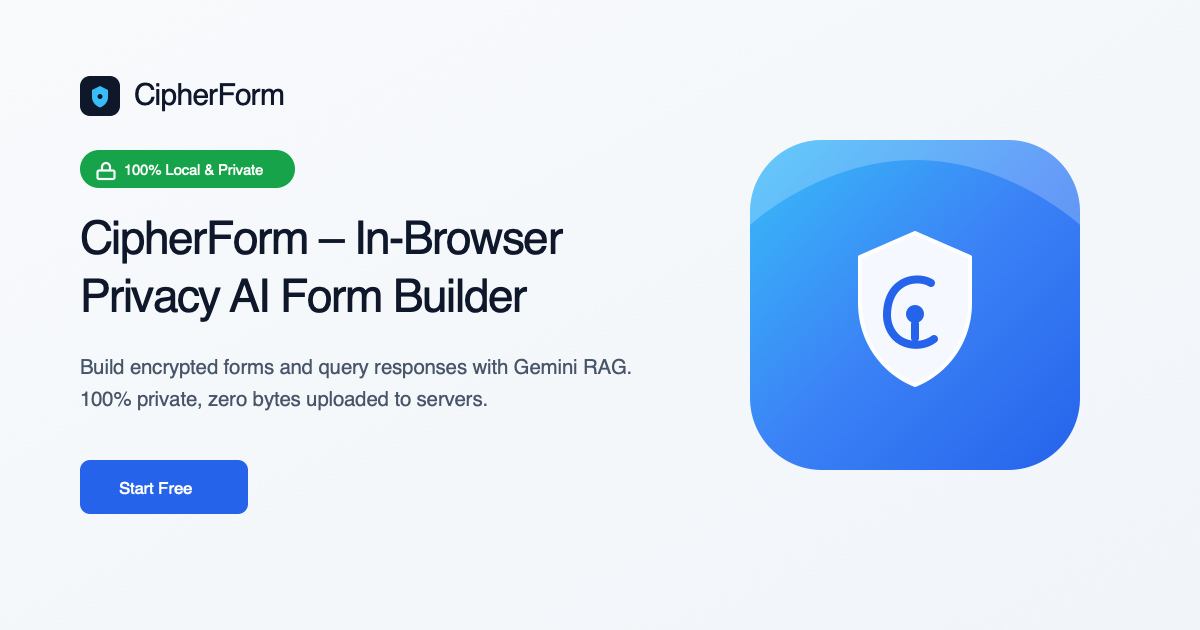
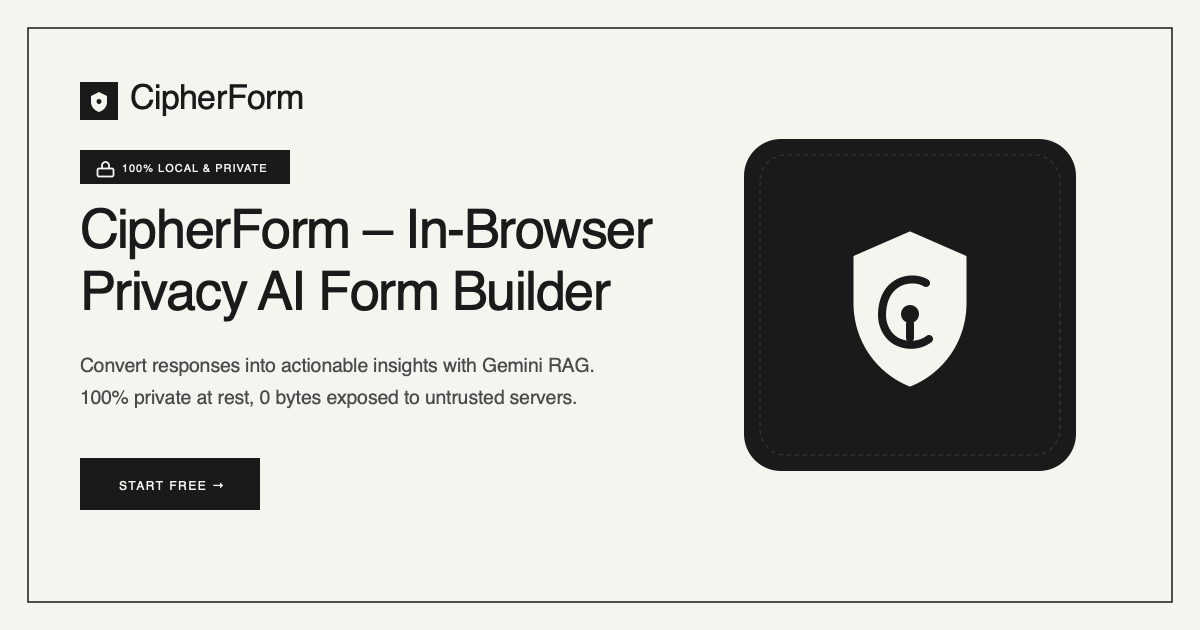
feat(design): align og-image with CipherForm cream (#f5f5f0) and obsidian (#1a1a1a) design system

diff --git a/client/public/og-card.html b/client/public/og-card.html
@@ -2,17 +2,18 @@
 <html lang="en">
 <head>
   <meta charset="UTF-8">
-  <title>CipherForm Minimal OG Image</title>
+  <title>CipherForm OG Card</title>
   <link rel="preconnect" href="https://fonts.googleapis.com">
   <link rel="preconnect" href="https://fonts.gstatic.com">
-  <link href="https://fonts.googleapis.com/css2?family=Inter:wght@400;500;600;700;800&display=swap" rel="stylesheet">
+  <link href="https://fonts.googleapis.com/css2?family=Crimson+Pro:ital,wght@0,300;0,400;0,600;1,400;1,600&family=Inter:wght@400;500;600&family=JetBrains+Mono:wght@500;600;700&display=swap" rel="stylesheet">
   <style>
     * { margin: 0; padding: 0; box-sizing: border-box; }
     body {
       width: 1200px;
       height: 630px;
-      background: linear-gradient(135deg, #f8fafc 0%, #f1f5f9 100%);
-      font-family: 'Inter', -apple-system, BlinkMacSystemFont, sans-serif;
+      background-color: #f5f5f0;
+      color: #1a1a1a;
+      font-family: 'Inter', -apple-system, sans-serif;
       display: flex;
       align-items: center;
       justify-content: space-between;
@@ -20,114 +21,137 @@
       position: relative;
     }
 
+    .frame-border {
+      position: absolute;
+      inset: 28px;
+      border: 1.5px solid #1a1a1a;
+      pointer-events: none;
+    }
+
     .content-left {
       max-width: 630px;
       display: flex;
       flex-direction: column;
       align-items: flex-start;
+      z-index: 10;
     }
 
     .logo-row {
       display: flex;
       align-items: center;
-      gap: 14px;
+      gap: 12px;
       margin-bottom: 24px;
     }
 
     .logo-icon {
-      width: 40px;
-      height: 40px;
-      border-radius: 10px;
-      background: #0f172a;
+      width: 38px;
+      height: 38px;
+      background: #1a1a1a;
       display: flex;
       align-items: center;
       justify-content: center;
     }
 
     .logo-text {
-      font-size: 30px;
-      font-weight: 800;
-      color: #0f172a;
-      letter-spacing: -0.8px;
+      font-family: 'Crimson Pro', Georgia, serif;
+      font-size: 34px;
+      font-weight: 600;
+      color: #1a1a1a;
+      letter-spacing: -0.5px;
     }
 
     .badge {
       display: inline-flex;
       align-items: center;
       gap: 8px;
-      background-color: #16a34a;
-      color: #ffffff;
-      padding: 6px 18px;
-      border-radius: 9999px;
-      font-size: 15px;
-      font-weight: 700;
-      letter-spacing: -0.2px;
+      background-color: #1a1a1a;
+      color: #f5f5f0;
+      padding: 6px 16px;
+      font-family: 'JetBrains Mono', monospace;
+      font-size: 11px;
+      font-weight: 600;
+      letter-spacing: 1px;
       margin-bottom: 22px;
     }
 
     .headline {
-      font-size: 46px;
-      line-height: 1.15;
-      font-weight: 800;
-      color: #0f172a;
+      font-family: 'Crimson Pro', Georgia, serif;
+      font-size: 54px;
+      font-style: italic;
+      font-weight: 400;
+      line-height: 1.1;
+      color: #1a1a1a;
       letter-spacing: -1.5px;
-      margin-bottom: 16px;
+      margin-bottom: 18px;
     }
 
     .description {
-      font-size: 20.5px;
+      font-size: 19.5px;
       line-height: 1.45;
-      color: #475569;
+      color: #4a4a4a;
       font-weight: 400;
       margin-bottom: 32px;
     }
 
     .btn {
-      background-color: #2563eb;
-      color: #ffffff;
+      background-color: #1a1a1a;
+      color: #f5f5f0;
       padding: 14px 34px;
-      border-radius: 10px;
-      font-size: 17px;
+      font-family: 'JetBrains Mono', monospace;
+      font-size: 12px;
       font-weight: 700;
-      box-shadow: 0 6px 20px rgba(37, 99, 235, 0.35);
+      letter-spacing: 1.5px;
+      box-shadow: 3px 3px 0px 0px black;
       border: none;
       display: inline-flex;
       align-items: center;
     }
 
-    /* Right side 3D Squircle Icon */
+    /* Right side Stark Obsidian Card */
     .icon-container {
       width: 330px;
       height: 330px;
-      border-radius: 72px;
-      background: linear-gradient(145deg, #38bdf8 0%, #3b82f6 50%, #2563eb 100%);
-      box-shadow: 0 24px 50px -10px rgba(37, 99, 235, 0.35);
+      border-radius: 36px;
+      background: #1a1a1a;
+      border: 2px solid #1a1a1a;
+      box-shadow: 8px 8px 0px 0px black;
       display: flex;
       align-items: center;
       justify-content: center;
       position: relative;
+      z-index: 10;
+    }
+
+    .inner-dashed {
+      position: absolute;
+      inset: 16px;
+      border-radius: 24px;
+      border: 1.5px dashed #333333;
+      pointer-events: none;
     }
 
     .shield-svg {
-      width: 180px;
-      height: 180px;
-      filter: drop-shadow(0 8px 16px rgba(0, 0, 0, 0.12));
+      width: 175px;
+      height: 175px;
     }
   </style>
 </head>
 <body>
+  <div class="frame-border"></div>
+
   <div class="content-left">
     <div class="logo-row">
       <div class="logo-icon">
-        <svg width="22" height="22" viewBox="0 0 24 24" fill="none" stroke="#38bdf8" stroke-width="2.5" stroke-linecap="round" stroke-linejoin="round">
-          <path d="M12 22s8-4 8-10V5l-8-3-8 3v7c0 6 8 10 8 10z"/>
+        <svg width="22" height="22" viewBox="0 0 24 24" fill="none">
+          <path d="M12 3L18 6V12C18 16 15 19.5 12 21C9 19.5 6 16 6 12V6L12 3Z" fill="#f5f5f0"/>
+          <circle cx="12" cy="12" r="2" fill="#1a1a1a"/>
         </svg>
       </div>
       <span class="logo-text">CipherForm</span>
     </div>
 
     <div class="badge">
-      <span>🔒 100% Local &amp; Private</span>
+      <span>🔒 100% LOCAL &amp; PRIVATE</span>
     </div>
 
     <h1 class="headline">
@@ -135,20 +159,21 @@
     </h1>
 
     <p class="description">
-      Build encrypted forms and query responses with Gemini RAG.<br>100% private, zero bytes uploaded to servers.
+      Convert responses into actionable insights with Gemini RAG.<br>100% private at rest, 0 bytes exposed to untrusted servers.
     </p>
 
     <div class="btn">
-      Start Free
+      START FREE →
     </div>
   </div>
 
   <div class="icon-container">
+    <div class="inner-dashed"></div>
     <svg class="shield-svg" viewBox="0 0 64 64" fill="none">
-      <path d="M32 10L50 17V31C50 42.5 42.4 52.8 32 56C21.6 52.8 14 42.5 14 31V17L32 10Z" fill="white" fill-opacity="0.95" stroke="white" stroke-width="2" stroke-linejoin="round"/>
-      <path d="M37 24C34.5 22.5 30 22.5 27 24.5C24 26.5 23 30 23 33.5C23 37 24.5 40.5 27.5 42C30.5 43.5 34.5 43 37 41" stroke="#2563eb" stroke-width="3" stroke-linecap="round"/>
-      <circle cx="32" cy="33" r="3.5" fill="#2563eb"/>
-      <path d="M32 36.5V41" stroke="#2563eb" stroke-width="3" stroke-linecap="round"/>
+      <path d="M32 8L49 16V31C49 43 40.5 53 32 56.5C23.5 53 15 43 15 31V16L32 8Z" fill="#f5f5f0" stroke="#f5f5f0" stroke-width="2" stroke-linejoin="round"/>
+      <path d="M37 24C34.5 22.5 30 22.5 27 24.5C24 26.5 23 30 23 33.5C23 37 24.5 40.5 27.5 42C30.5 43.5 34.5 43 37 41" stroke="#1a1a1a" stroke-width="3" stroke-linecap="round"/>
+      <circle cx="32" cy="33" r="3.2" fill="#1a1a1a"/>
+      <path d="M32 36.5V41" stroke="#1a1a1a" stroke-width="3" stroke-linecap="round"/>
     </svg>
   </div>
 </body>
